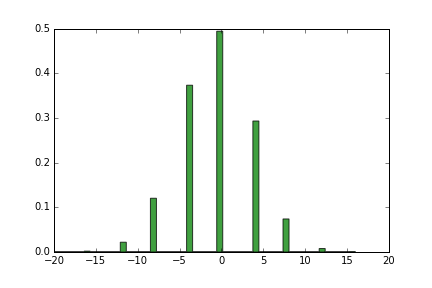
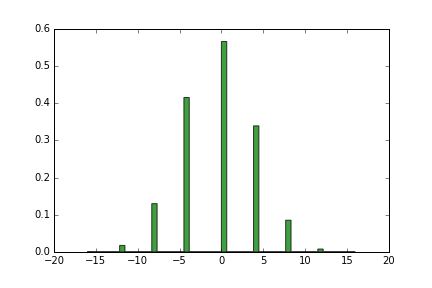
MH algorithm with time-dependent probabilities of transition from current to the nearest energy level(deck)

diff --git a/MH_sampling_2pams_v3.py b/MH_sampling_2pams_v3.py
@@ -1,0 +1,275 @@
+#M-H algorithm with time-dependent transitional probabilities
+"""
+Created on Wed, March 02nd, 2016
+
+@author: nportman
+"""
+
+#import sknn
+#from sknn.mlp import Regressor, Layer
+from itertools import product
+import numpy as np
+import random
+import gzip
+import cPickle
+import MH_dataset_generator as mh
+import ising_model_princeton2 as I
+import matplotlib.pyplot as plt
+import collections
+from sklearn.tree import DecisionTreeClassifier
+from sklearn.decomposition import PCA
+from sklearn.preprocessing import scale
+from operator import itemgetter
+from scipy import stats
+# plotting data    
+def show_results(outer_set,temp_val, all_M, all_H):
+    fig = plt.figure()
+    ax1 = fig.add_subplot(2,2,1)
+    ax2 = fig.add_subplot(2,2,2)
+    ax3 = fig.add_subplot(2,2,3)
+    L=len(outer_set)
+    ax1.set_xlim(0, np.max(temp_val))
+    ax1.set_ylim(np.min(all_M)-1, np.max(all_M))
+    ax2.set_xlim(0,len(outer_set[0]['H'])) # max temperature
+    ax2.set_ylim(np.min(all_H)-1, np.max(all_H))
+    ax3.set_xlim(0,len(outer_set[L-1]['H'])) # min temperature
+    ax3.set_ylim(np.min(all_H)-1, np.max(all_H))
+  
+    curve1=Line2D([],[],color='blue')
+    ax1.add_line(curve1)
+    curve2=Line2D([],[],color='red')
+    ax2.add_line(curve2)
+    curve3=Line2D([],[],color='black')
+    ax3.add_line(curve3)
+
+    # find average magnetization per each temperature
+    ave_M=[]
+    for i in range(len(outer_set)):
+        ave_M.append(np.mean(outer_set[i]['M']))
+    curve1.set_data(temp_val,ave_M)
+    #curve1.set_data(range(0,len(outer_set[0]['M'])),outer_set[0]['M'])
+    curve2.set_data(range(0,len(outer_set[0]['H'])),outer_set[0]['H']) 
+    curve3.set_data(range(0,len(outer_set[L-1]['H'])),outer_set[L-1]['H']) 
+           
+    plt.draw()
+    plt.savefig('new_dat.png') 
+#show_results(outer_set,temp_val, all_M, all_H)
+def Hamiltonian(data):
+    # define the energy of the ferromagnetic configuration
+    sz=np.shape(data)
+    E=0.0
+    # compute horizontal interaction energies
+    for i in range(sz[0]):
+         for j in range(sz[0]):
+            E-=data[i,j]*(data[i,(j+1)%sz[0]]+data[(i+1)%sz[0],j])
+    return E        
+
+def Magn(data):
+    M=np.sum(data)
+    return M
+    
+def rand_move(data,N):
+    L=len(data)
+    ID=np.random.randint(0,L)
+    config=data[ID][:-1]
+    conf=np.reshape(config,(N,N))
+    En=Hamiltonian(conf)
+    M=Magn(conf)
+    return (config, En, M)
+ 
+def choose_level(data,classes,deck):
+    tot_len=np.max(classes)-np.min(classes)+1
+    beta=np.random.random()
+    if deck==np.min(classes):
+        deck=deck+1
+    elif deck==np.max(classes):
+        deck=deck-1 
+    else:           
+        if beta<0.5:
+            deck=deck-1
+        else:    
+            deck=deck+1
+    return deck   # return  candidate energy level 
+    
+def choose_level2(en, T, classes, deck, freq):
+    if deck==np.min(classes):
+        deck=deck+1
+    elif deck==np.max(classes):
+        deck=deck-1
+    else:
+        pr=np.zeros(3)
+        prob_A1=freq[deck-1]
+        prob_A2=freq[deck+1]
+        prob_B=freq[deck]
+        En_B=en[deck]
+        En_A1=en[deck-1]
+        En_A2=en[deck+1]
+        p_A1B=np.exp(-(En_B-En_A1)/T)*prob_A1
+        #print p_A1B
+        p_A2B=np.exp(-(En_B-En_A2)/T)*prob_A2
+        #print p_A2B
+        s=p_A1B+p_A2B+prob_B
+        
+        pr[0]=p_A1B/s
+        pr[1]=p_A2B/s
+        pr[2]=prob_B/s
+        xk=np.arange(3)
+        custm=stats.rv_discrete(name='custm',values=(xk,pr))
+        beta=custm.rvs(size=1)
+        
+        if beta[0]==0:
+            deck=deck-1
+        elif beta[0]==1:
+            deck=deck+1
+        else:
+            pass
+          
+    return deck
+              
+def get_MH_sampled_IDs(data,en,classes,freq):
+    #temp_val=[x for x in np.arange(0.001,20.0, 0.1)]
+    #temp_val=[x for x in np.arange(0.001,20.0, 0.1)]
+    temp_val=[40]    
+    iters=4000
+    N_seeds=10    
+    nr=4
+    count=0
+    all_M=[]
+    all_H=[]
+    #repeats=np.zeros(len(temp_val))
+    R=[]
+    dat=np.array(data)
+    
+    for T in temp_val:
+        print T
+        outer_set={}
+        for n in range(N_seeds):
+            Hs=[]
+            a1=I.Ising_lattice(nr)
+            a1.random_conf(data)
+            conf=a1._spins
+            En=a1._E
+            M=a1._M
+            deck=a1._deck #https://www.google.ca/?gws_rd=ssl initialization
+            for k in range(iters): # num of MH steps
+                #print 'fix this'
+                kB = 1.0
+                # let us consider another configuration
+                label=choose_level2(en,T,classes,deck,freq) # next candidate from the label group
+                #label=randint(np.max([0,deck-1]),np.min([np.max(classes),deck+1]))                
+                ids=np.where(dat[:,-1]==label)
+                idd=ids[0]
+                group=dat[idd]# look at this level group
+                (conf2, En_2, M_2)=rand_move(group,nr)
+                # calc whether it goes uphill
+                dE=En_2-En
+                if (dE<0.0):
+                    #accept
+                    conf=conf2 # go downhill
+                    En=En_2
+                    M=M_2
+                    flag=1
+                    deck=label
+                else:  
+                    #accept with prob
+                    your_random_number = np.random.random()
+                    if (your_random_number < np.exp(-dE/(kB*T))):
+                        #go uphill
+                        conf=conf2 # update lattice value i,j and the corresponding energy                   
+                        En=En_2
+                        M=M_2
+                        flag=1
+                        deck=label
+
+#                we have now decided to either stay where we were, or change
+#                provided we are past the warm up stage, let's store the result
+                if k>=3000:
+                    R.append(np.hstack((np.reshape(conf,(nr*nr)),En,M)))
+                    all_M.append(M)
+                    all_H.append(En)
+                    Hs.append(En)
+            outer_set[n]=Hs
+        
+        #t1 = np.arange(0, len(outer_set[0]))
+        #t2 = np.arange(0, len(outer_set[99]))
+
+        #plt.figure(1)
+        #plt.subplot(211)
+        #plt.plot(t1, outer_set[0], 'b')
+        #print outer_set[0]
+        #plt.subplot(212)
+        #plt.plot(t2, outer_set[9], 'r')
+        #plt.show()                
+        
+        count=count+1
+    result=R
+    result=np.array(result)
+    result=result.reshape((len(result),nr*nr+2))
+    return result
+    
+
+def histogr(output):    
+    import pylab as P
+    # the histogram of the data with histtype='step'
+    P.figure()
+    n, bins, patches = P.hist(output, 50, normed=1, histtype='stepfilled')
+    P.setp(patches, 'facecolor', 'g', 'alpha', 0.75)
+    P.savefig('Hamil_compl_40.png')     
+
+def main():
+    nr=input('Enter the dimension N of the square lattice -->')
+    reps=nr*nr # number of lattice sites
+
+    # generate complete dataset
+    (training_data,training_H,training_M)=mh.complete_dataset(reps)
+    train_en=np.unique(training_H)
+    train_labels=mh.gen_train_labels(training_data, training_H, training_M)
+    
+    # compute frequesncies
+    counter=collections.Counter(train_labels)
+    val=counter.values()
+    freq=np.array(val)/np.float(len(train_labels))
+
+    #partition into training 90% and testing 10% datasets
+    #[train,test]=mh.partition(training_data,train_labels)
+    #train_set=train[0]
+    #train_y=train[1]
+    #test_set=test[0]
+    #test_y=test[1]
+    #test_classes=np.unique(test_y)
+    #train_classes=np.unique(train_y)
+    #training=[]
+    #testing=[]
+    #for i in range(len(train_set)):
+    #row=train_set[i]
+    #training.append(np.hstack((row,train_y[i])))
+    #for i in range(len(test_set)):    
+    #row2=test_set[i]
+    #testing.append(np.hstack((row2,test_y[i])))
+    #np.reshape(testing,(len(testing),17))
+    #np.reshape(training,(len(training),17))
+    
+    #train2=sorted(training,key=itemgetter(-1))
+    #test2=sorted(testing,key=itemgetter(-1))
+    train=[]
+    for i in range(len(training_data)):    
+        row2=training_data[i]
+        train.append(np.hstack((row2,train_labels[i])))
+    np.reshape(train,(len(train),17))
+    
+    train2=sorted(train,key=itemgetter(-1))
+    train_classes=np.unique(train_labels)    
+    train_res=get_MH_sampled_IDs(train2,train_en,train_classes,freq) 
+    H=[]
+    for i in range(len(train_res)):
+        H.append(train_res[i][-2])
+    
+    count=collections.Counter(H)
+    val=count.values()    
+    freq2=np.array(val)/np.float(len(H)) # estimated fdrequencies of the ditribution   
+    print "energy values:", count.keys()
+    print "frequencies:", freq2
+    histogr(H)    
+ 
+if __name__=='__main__':
+    main()
